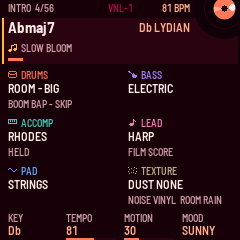
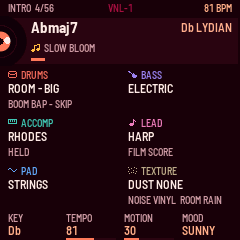
Main screen: half the record at the song tile's left edge, as on the splash and now playing
Sam: "Since the splash and simple home have the record on the left, I think we should too." Replaces the top-right
corner record: the same drawing, r 26, centered on x 0 at y 41, half of it showing in the song tile. The tile's band
runs 16-65 (the rows between the bands its own, its highlight still 18-63) so the disc fits whole top to bottom.
The chord, the layout icon and name and the section strip start at x 31, clear of the disc; the key and scale and
the pending line stay at the right. The record covers the highlight's colored edge: highlighted, the tile shows by
its fill. The status bar is back as it was (16 tall, the tempo at 232). The turn redraws the label's box alone,
12 x 23 px.

Image +96 B over the base, RAM .data+.bss unchanged. The manual's main and pending shots re-shot.

Claude-Session: https://claude.ai/code/session_01ENYN74abncM7Wq3c4vd7md

Changed region(s): [[0.0, 0.0583, 0.4083, 0.2917], [0.5542, 0.0, 0.9917, 0.175], [0.6708, 0.0, 0.8167, 0.0583]]

diff --git a/workbench/ui/screens.js b/workbench/ui/screens.js
@@ -293,44 +293,40 @@ export default {
       title: "Main",
       menu: ["pSong", "pDrums", "pBass", "pComp", "pLead", "pPad", "pTexture"],
       bands: [
-        // now playing's record in the top right corner (Sam, 2026-11-13: "a small spinning version of the record ...
-        // top row corner?", then "more like the splash screen or simplified home"): the same drawing, r 30, its label
-        // whole (the cream dot, the wedge, the hole), the disc running off the top and the right into the song tile
-        // (an item a band, as now playing's). It turns as that one does (33 1/3 while a song plays, easing to a
-        // stop), its label alone redrawn (render.c's ui_record_turn: a 25 x 21 box). The status bar 18 tall, so no
-        // gap runs through the disc. The tempo and the key move left of it. The other placements Sam was shown:
-        // a quarter on the corner ([240, 0, 32]), half a record cut by the right edge in the song tile
-        // ([240, 23, 22], the tile's right-hand text at 212), a quarter on the top left ([0, 0, 32]), and small
-        // whole or cut ones (r 7-8: render.c's small record)
-        { y: 0, h: 18, draw: [
-          { record: [224, 8, 30], value: "spin", color: "AMB", back: "VINYL", past: "LINE" },
+        { y: 0, h: 16, draw: [
           { when: "song", text: "{section}  {bar}/{bars}", font: "T", x: 8, y: 2, color: "GRAY" },
           { when: ["song", "looping"], text: "LOOP", font: "T", after: 8, y: 2, color: "HI" },
           { when: "!song", text: "{idle}", font: "T", x: 8, y: 2, color: "GRAY" },
-          // (the longest, a tempo waiting, *84 BPM: x 158-190; the disc from 194)
-          { when: "known", text: "{tempo} BPM", font: "T", right: 190, y: 2, color: "HI" },
+          { when: "known", text: "{tempo} BPM", font: "T", right: 232, y: 2, color: "HI" },
           // the firmware's name in capitals (the splash's wordmark alone is lower case), in the bar's face, quiet,
           // centred in its free middle (Sam, 2026-11-12): x 108-133, the longest left text (GROOVE 56/56 LOOP)
           // ending at 94
           { text: "VNL-1", font: "T", x: 108, y: 2, color: "DIM" },
         ] },
-        { y: 18, h: 46, draw: [
-          { when: "sel0", rect: [2, 0, 236, 46], color: "LINE" },
-          { when: "sel0", rect: [2, 0, 2, 46], color: "SONG" },
-          { record: [224, -10, 30], value: "spin", color: "AMB", back: "VINYL", past: "LINE" },   // (its lower part)
-          { when: "song", text: "{chord}", font: "B", x: 8, y: 2, color: "WHITE" },
-          // left of the record (F# MIXOLYDIAN, the longest, x 114-190; the longest chord ends at 89)
-          { when: ["song", "!lockSong"], text: "{key} {mode}", font: "XS", right: 190, y: 2, color: "HI" },
-          { when: ["song", "lockSong"], text: "{key} {mode}", font: "XS", right: 176, y: 2, color: "HI" },   // (room for:)
-          { when: "lockSong", icon: "lock", x: 182, y: 4, color: "HI" },   // the song line locked (Sam, 2026-11-12)
-          { when: "song", icon: "song", x: 8, y: 26, color: "SONG" },
-          { when: "song", text: "{map}", font: "T", x: 21, y: 24, color: "GRAY" },
-          { when: "pending", text: "{pending}", font: "T", right: 232, y: 24, color: "HI" },   // as on a part's screen (Sam)
+        // the song tile, from y 16 to 65 (the rows between the bands its own, so the record has them: the tile's
+        // highlight still 18-63). Half of now playing's record cut by the left edge, as the splash's and now
+        // playing's are (Sam, 2026-11-13: "since the splash and simple home have the record on the left, I think we
+        // should too"): the same drawing, r 26, centred on x 0 at y 41, its label 10 px; it turns as that one does
+        // (33 1/3 while a song plays, easing to a stop), its label alone redrawn (render.c's ui_record_turn, a 12 x 23
+        // box). The tile's left-hand text starts at x 31, clear of the disc; the right-hand text where it was. The
+        // record covers the highlight's colored edge (x 2): highlighted, the tile shows by its fill.
+        { y: 16, h: 50, draw: [
+          { when: "sel0", rect: [2, 2, 236, 46], color: "LINE" },
+          { when: "sel0", rect: [2, 2, 2, 46], color: "SONG" },
+          { record: [0, 25, 26], value: "spin", color: "AMB", back: "VINYL", past: "LINE" },
+          // (the longest chord, Abmaj13#11, x 31-112; the longest key and scale, F# MIXOLYDIAN, from 156)
+          { when: "song", text: "{chord}", font: "B", x: 31, y: 4, color: "WHITE" },
+          { when: ["song", "!lockSong"], text: "{key} {mode}", font: "XS", right: 232, y: 4, color: "HI" },
+          { when: ["song", "lockSong"], text: "{key} {mode}", font: "XS", right: 220, y: 4, color: "HI" },   // (room for:)
+          { when: "lockSong", icon: "lock", x: 226, y: 6, color: "HI" },   // the song line locked (Sam, 2026-11-12)
+          { when: "song", icon: "song", x: 31, y: 28, color: "SONG" },
+          { when: "song", text: "{map}", font: "T", x: 44, y: 26, color: "GRAY" },
+          { when: "pending", text: "{pending}", font: "T", right: 232, y: 26, color: "HI" },   // as on a part's screen (Sam)
           // stopped with a song ready: its key (Sam, 2026-11-06), STOPPED only once (the status bar's)
-          { when: "ready", text: "{key} {mode}", font: "B", x: 8, y: 2, color: "WHITE" },
-          { when: "ready", icon: "song", x: 8, y: 26, color: "SONG" },
-          { when: "ready", text: "{map}", font: "T", x: 21, y: 24, color: "GRAY" },
-          { sections: [8, 40, 224, 3], color: "AMB", back: "LINE", past: "DIM" },   // the song's map, a segment a section
+          { when: "ready", text: "{key} {mode}", font: "B", x: 31, y: 4, color: "WHITE" },
+          { when: "ready", icon: "song", x: 31, y: 28, color: "SONG" },
+          { when: "ready", text: "{map}", font: "T", x: 44, y: 26, color: "GRAY" },
+          { sections: [31, 42, 201, 3], color: "AMB", back: "LINE", past: "DIM" },   // the song's map, a segment a section
         ] },
         { y: 66, h: 144, draw: [
           { when: "sel1", rect: [2, 0, 116, 46], color: "LINE" },

diff --git a/app/ui/screens_gen.c b/app/ui/screens_gen.c
@@ -365,7 +365,7 @@ const ui_when_t UI_WHENS[59] = {
     {21, 0, 0},
     {20, 0, 0},
 };
-const ui_item_t UI_ITEMS[427] = {
+const ui_item_t UI_ITEMS[426] = {
     {0, 0, 4, 0, 8, 2, 0, 0, 1, 0, 0},
     {0, 0, 6, 0, 8, 2, 0, 2, 2, 0, 13},
     {0, 0, 4, 0, 8, 2, 0, 0, 3, 1, 18},
@@ -391,26 +391,25 @@ const ui_item_t UI_ITEMS[427] = {
     {1, 0, 2, 0, 8, 0, 224, 1, 0, 0, 0},
     {0, 0, 3, 0, 8, 8, 0, 0, 0, 0, 289},
     {0, 0, 3, 0, 8, 24, 0, 0, 0, 0, 118},
-    {8, 0, 5, 15, 224, 8, 30, 0, 0, 2, 22},
     {0, 0, 4, 0, 8, 2, 0, 0, 1, 0, 0},
     {0, 0, 6, 0, 8, 2, 0, 2, 2, 0, 13},
     {0, 0, 4, 0, 8, 2, 0, 0, 3, 1, 18},
-    {0, 0, 6, 0, 190, 2, 0, 1, 4, 0, 22},
+    {0, 0, 6, 0, 232, 2, 0, 1, 4, 0, 22},
     {0, 0, 3, 0, 108, 2, 0, 0, 0, 0, 337},
-    {1, 0, 2, 0, 2, 0, 236, 46, 7, 0, 0},
-    {1, 0, 13, 0, 2, 0, 2, 46, 7, 0, 0},
-    {8, 0, 5, 15, 224, 246, 30, 0, 0, 2, 22},
-    {0, 3, 1, 0, 8, 2, 0, 0, 1, 1, 36},
-    {0, 1, 6, 0, 190, 2, 0, 1, 8, 0, 343},
-    {0, 1, 6, 0, 176, 2, 0, 1, 9, 0, 343},
-    {2, 0, 6, 0, 182, 4, 0, 0, 10, 0, 4},
-    {2, 0, 13, 0, 8, 26, 0, 0, 1, 0, 8},
-    {0, 0, 4, 0, 21, 24, 0, 0, 1, 2, 351},
-    {0, 0, 6, 0, 232, 24, 0, 1, 6, 1, 40},
-    {0, 3, 1, 0, 8, 2, 0, 0, 11, 0, 343},
-    {2, 0, 13, 0, 8, 26, 0, 0, 11, 0, 8},
-    {0, 0, 4, 0, 21, 24, 0, 0, 11, 2, 351},
-    {5, 0, 5, 2, 8, 40, 224, 3, 0, 3, 0},
+    {1, 0, 2, 0, 2, 2, 236, 46, 7, 0, 0},
+    {1, 0, 13, 0, 2, 2, 2, 46, 7, 0, 0},
+    {8, 0, 5, 15, 0, 25, 26, 0, 0, 2, 22},
+    {0, 3, 1, 0, 31, 4, 0, 0, 1, 1, 36},
+    {0, 1, 6, 0, 232, 4, 0, 1, 8, 0, 343},
+    {0, 1, 6, 0, 220, 4, 0, 1, 9, 0, 343},
+    {2, 0, 6, 0, 226, 6, 0, 0, 10, 0, 4},
+    {2, 0, 13, 0, 31, 28, 0, 0, 1, 0, 8},
+    {0, 0, 4, 0, 44, 26, 0, 0, 1, 2, 351},
+    {0, 0, 6, 0, 232, 26, 0, 1, 6, 1, 40},
+    {0, 3, 1, 0, 31, 4, 0, 0, 11, 0, 343},
+    {2, 0, 13, 0, 31, 28, 0, 0, 11, 0, 8},
+    {0, 0, 4, 0, 44, 26, 0, 0, 11, 2, 351},
+    {5, 0, 5, 2, 31, 42, 201, 3, 0, 3, 0},
     {1, 0, 2, 0, 2, 0, 116, 46, 12, 0, 0},
     {1, 0, 9, 0, 2, 0, 2, 46, 12, 0, 0},
     {2, 0, 9, 0, 8, 5, 0, 0, 0, 0, 2},
@@ -807,80 +806,80 @@ const ui_band_t UI_BANDS[86] = {
     {18, 28, 0, 12, 5},
     {50, 140, 0, 21, 1},
     {196, 44, 0, 22, 3},
-    {0, 18, 0, 25, 6},
-    {18, 46, 0, 31, 14},
-    {66, 144, 0, 45, 40},
-    {212, 28, 0, 85, 1},
+    {0, 16, 0, 25, 5},
+    {16, 50, 0, 30, 14},
+    {66, 144, 0, 44, 40},
+    {212, 28, 0, 84, 1},
     {0, 16, 0, 0, 4},
-    {18, 28, 0, 86, 4},
-    {50, 132, 0, 90, 1},
-    {196, 44, 0, 91, 3},
-    {0, 56, 0, 94, 1},
-    {56, 128, 0, 95, 10},
-    {184, 56, 0, 105, 1},
-    {0, 16, 0, 106, 3},
-    {18, 28, 0, 109, 8},
-    {48, 144, 0, 117, 6},
-    {200, 40, 0, 123, 3},
-    {0, 16, 0, 106, 3},
-    {18, 28, 0, 126, 8},
-    {48, 144, 0, 134, 12},
-    {200, 40, 0, 146, 3},
-    {0, 16, 0, 106, 3},
-    {18, 28, 0, 126, 8},
-    {48, 144, 0, 149, 9},
-    {200, 40, 0, 146, 3},
-    {0, 16, 0, 106, 3},
-    {18, 28, 0, 158, 8},
-    {48, 144, 0, 166, 12},
-    {200, 40, 0, 178, 3},
-    {0, 16, 0, 106, 3},
-    {18, 28, 0, 158, 8},
-    {48, 144, 0, 181, 3},
-    {200, 40, 0, 178, 3},
-    {0, 16, 0, 106, 3},
-    {18, 28, 0, 184, 8},
-    {48, 144, 0, 192, 12},
-    {200, 40, 0, 146, 3},
-    {0, 16, 0, 106, 3},
-    {18, 28, 0, 184, 8},
-    {48, 144, 0, 204, 3},
-    {200, 40, 0, 146, 3},
-    {0, 16, 0, 106, 3},
-    {18, 28, 0, 207, 8},
-    {48, 144, 0, 215, 12},
-    {200, 40, 0, 123, 3},
-    {0, 16, 0, 227, 5},
-    {18, 28, 0, 232, 8},
-    {48, 144, 0, 240, 12},
-    {200, 40, 0, 252, 3},
-    {0, 16, 0, 227, 5},
-    {18, 28, 0, 232, 8},
-    {48, 144, 0, 255, 3},
-    {200, 40, 0, 252, 3},
-    {0, 16, 0, 227, 5},
-    {18, 28, 0, 232, 8},
-    {48, 144, 0, 258, 12},
-    {200, 40, 0, 252, 3},
-    {0, 16, 0, 106, 3},
-    {18, 28, 0, 270, 8},
-    {48, 144, 0, 278, 9},
-    {200, 40, 0, 287, 3},
-    {0, 16, 0, 106, 3},
-    {18, 28, 0, 290, 2},
-    {50, 146, 0, 292, 23},
-    {196, 44, 0, 315, 3},
-    {0, 16, 0, 227, 5},
-    {18, 36, 0, 318, 4},
-    {56, 144, 0, 322, 36},
-    {200, 40, 0, 358, 3},
+    {18, 28, 0, 85, 4},
+    {50, 132, 0, 89, 1},
+    {196, 44, 0, 90, 3},
+    {0, 56, 0, 93, 1},
+    {56, 128, 0, 94, 10},
+    {184, 56, 0, 104, 1},
+    {0, 16, 0, 105, 3},
+    {18, 28, 0, 108, 8},
+    {48, 144, 0, 116, 6},
+    {200, 40, 0, 122, 3},
+    {0, 16, 0, 105, 3},
+    {18, 28, 0, 125, 8},
+    {48, 144, 0, 133, 12},
+    {200, 40, 0, 145, 3},
+    {0, 16, 0, 105, 3},
+    {18, 28, 0, 125, 8},
+    {48, 144, 0, 148, 9},
+    {200, 40, 0, 145, 3},
+    {0, 16, 0, 105, 3},
+    {18, 28, 0, 157, 8},
+    {48, 144, 0, 165, 12},
+    {200, 40, 0, 177, 3},
+    {0, 16, 0, 105, 3},
+    {18, 28, 0, 157, 8},
+    {48, 144, 0, 180, 3},
+    {200, 40, 0, 177, 3},
+    {0, 16, 0, 105, 3},
+    {18, 28, 0, 183, 8},
+    {48, 144, 0, 191, 12},
+    {200, 40, 0, 145, 3},
+    {0, 16, 0, 105, 3},
+    {18, 28, 0, 183, 8},
+    {48, 144, 0, 203, 3},
+    {200, 40, 0, 145, 3},
+    {0, 16, 0, 105, 3},
+    {18, 28, 0, 206, 8},
+    {48, 144, 0, 214, 12},
+    {200, 40, 0, 122, 3},
+    {0, 16, 0, 226, 5},
+    {18, 28, 0, 231, 8},
+    {48, 144, 0, 239, 12},
+    {200, 40, 0, 251, 3},
+    {0, 16, 0, 226, 5},
+    {18, 28, 0, 231, 8},
+    {48, 144, 0, 254, 3},
+    {200, 40, 0, 251, 3},
+    {0, 16, 0, 226, 5},
+    {18, 28, 0, 231, 8},
+    {48, 144, 0, 257, 12},
+    {200, 40, 0, 251, 3},
+    {0, 16, 0, 105, 3},
+    {18, 28, 0, 269, 8},
+    {48, 144, 0, 277, 9},
+    {200, 40, 0, 286, 3},
+    {0, 16, 0, 105, 3},
+    {18, 28, 0, 289, 2},
+    {50, 146, 0, 291, 23},
+    {196, 44, 0, 314, 3},
+    {0, 16, 0, 226, 5},
+    {18, 36, 0, 317, 4},
+    {56, 144, 0, 321, 36},
+    {200, 40, 0, 357, 3},
     {0, 16, 0, 0, 4},
-    {18, 36, 0, 361, 6},
-    {56, 144, 0, 367, 50},
-    {202, 38, 0, 417, 3},
-    {0, 64, 0, 94, 1},
-    {64, 120, 0, 420, 7},
-    {184, 56, 0, 105, 1},
+    {18, 36, 0, 360, 6},
+    {56, 144, 0, 366, 50},
+    {202, 38, 0, 416, 3},
+    {0, 64, 0, 93, 1},
+    {64, 120, 0, 419, 7},
+    {184, 56, 0, 104, 1},
 };
 const ui_knob_style_t UI_KNOB_STYLES[2] = {
     {8, 58, 0, 0, 4, 11, 1, 6, 4, 26, 50, 2, 5, 2},

diff --git a/CHANGELOG.md b/CHANGELOG.md
@@ -29,9 +29,10 @@ The first public release: a generative lo-fi hip hop firmware for the M-VAVE FM-
   screens; mute and solo from the keys; every change landing on the next four-bar line; a screen reader; USB audio.
 - **The mood on now playing:** the now-playing screen shows the song's mood (SAD, WISTFUL, WARM or SUNNY) on its
   own line under the tempo, and the screen reader says it.
-- **A record on the main screen:** the now-playing screen's record, smaller, in the main screen's top right corner
-  (its label whole, the disc running off the edges), turning while a song plays and easing to a stop when it stops;
-  the tempo and the key move left to make room. Only its label is redrawn as it turns (a 25 x 21 pixel box).
+- **A record on the main screen:** the now-playing screen's record, smaller, half of it showing at the left edge of
+  the main screen's song tile as on the splash and now playing, turning while a song plays and easing to a stop
+  when it stops; the chord, the layout and the section strip move right to make room. Only its label is redrawn
+  as it turns (a 12 x 23 pixel box).
 - **Part locks:** hold SEQ on a part's screen, or on the main screen with its tile highlighted, and every new song
   keeps that part (its instrument, rhythm or style, register and variations) while the rest rolls. The song line
   locks too (key and scale, tempo, motion, mood).

diff --git a/app/docs/MANUAL.md b/app/docs/MANUAL.md
@@ -116,11 +116,11 @@ each section, the tempo and, on its own line under the tempo, the mood.
 
 ### The main screen
 
-![The main screen: a status bar with INTRO 4/56, VNL-1 and 81 BPM, a turning record in the top right corner; the song tile with the chord Abmaj7, Db LYDIAN and SLOW BLOOM; six part tiles; the knob strip KEY Db, TEMPO 81, MOTION 30, MOOD SUNNY](img/vnl-main.png "The main screen")
+![The main screen: a status bar with INTRO 4/56, VNL-1 and 81 BPM; the song tile with half a record turning at its left edge, the chord Abmaj7, Db LYDIAN and SLOW BLOOM; six part tiles; the knob strip KEY Db, TEMPO 81, MOTION 30, MOOD SUNNY](img/vnl-main.png "The main screen")
 
 - **Status bar:** the section, the bar and the song's length in bars, LOOP while a section loops, and the tempo.
-- **Record:** in the top right corner, the now-playing screen's record, smaller; it turns while a song plays and
-  eases to a stop when it stops.
+- **Record:** half of the now-playing screen's record, smaller, at the song tile's left edge; it turns while a
+  song plays and eases to a stop when it stops.
 - **Song tile:** the chord playing, the key and scale, the layout name, a change on its way, and a strip of the
   song's sections.
 - **Part tiles:** drums (kit and pattern), bass (instrument), accompaniment (instrument and rhythm), lead (instrument and

diff --git a/app/site/landing.md b/app/site/landing.md
@@ -42,7 +42,7 @@ Other ways in:
 - **On the FM-1:** a now-playing screen, a main screen with a tile per part, a page per part, a Parts roll, Sections
   and a Mixer; mute or solo a part from the keys; a screen reader; USB audio in and out.
 
-![The main screen: the section, tempo and a turning record in the corner, the chord and key, a tile per part with its instrument (drums, bass, accompaniment, lead, pad, texture), and the key, tempo, motion and mood on the four knobs](img/main.png "The main screen")
+![The main screen: the section and tempo at the top, half a turning record beside the chord and key, a tile per part with its instrument (drums, bass, accompaniment, lead, pad, texture), and the key, tempo, motion and mood on the four knobs](img/main.png "The main screen")
 
 ![The accompaniment's page: its instrument (Rhodes), rhythm, voicings and register on the four knobs, with the controls' hints below](img/comp.png "A part's page")
 

diff --git a/README.md b/README.md
@@ -139,7 +139,7 @@ plate is adapted from AMB-1, inspired by Dattorro.
 
 - A boot splash with a spinning record that flows into the now-playing screen: the song, its key, the chord playing,
   where it is, its tempo.
-- A main screen with the song's progress, a record turning in its corner and a tile per part; a page per part
+- A main screen with the song's progress, a record turning beside the song and a tile per part; a page per part
   for its instrument, rhythm, register and re-rolls.
 - A Parts screen with each part's notes scrolling over the song; a Sections screen to jump, loop a section or stay on
   the song; a Mixer with a level, mute and solo per part.
